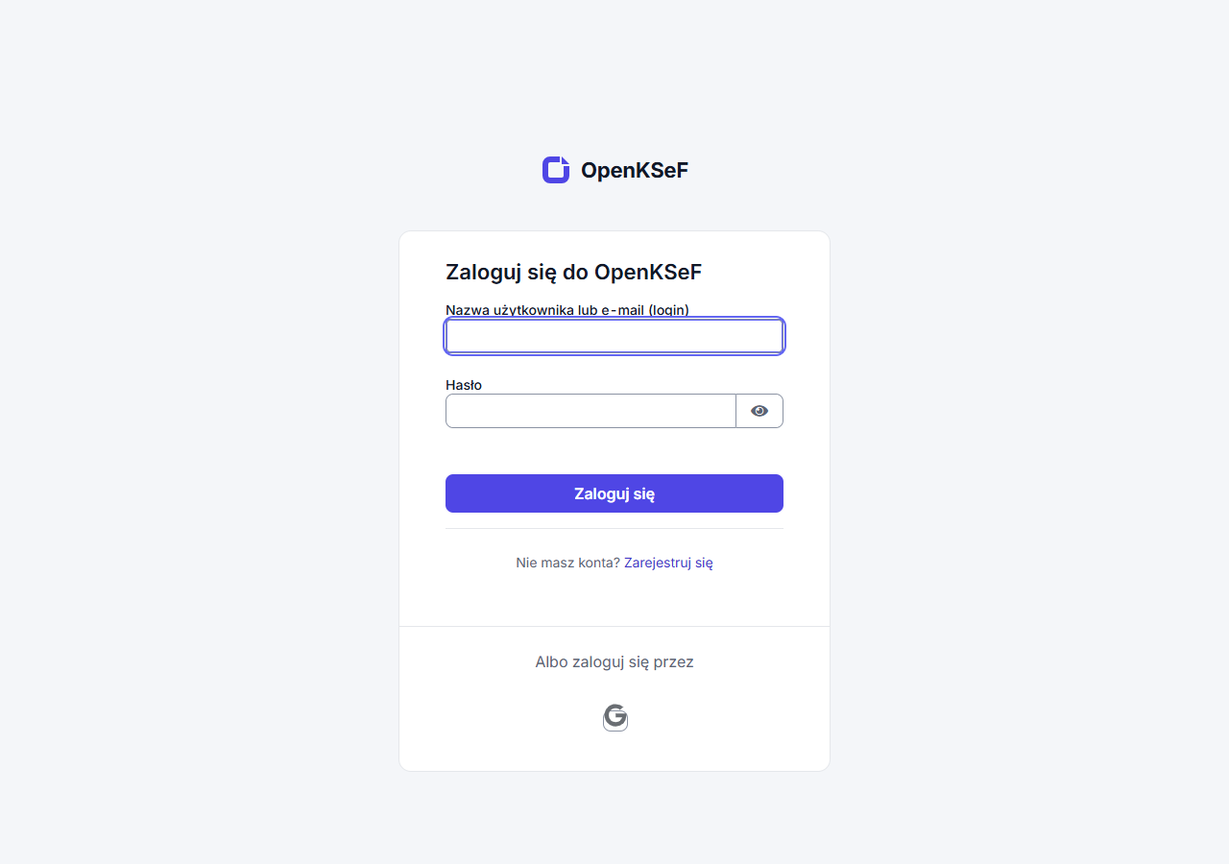
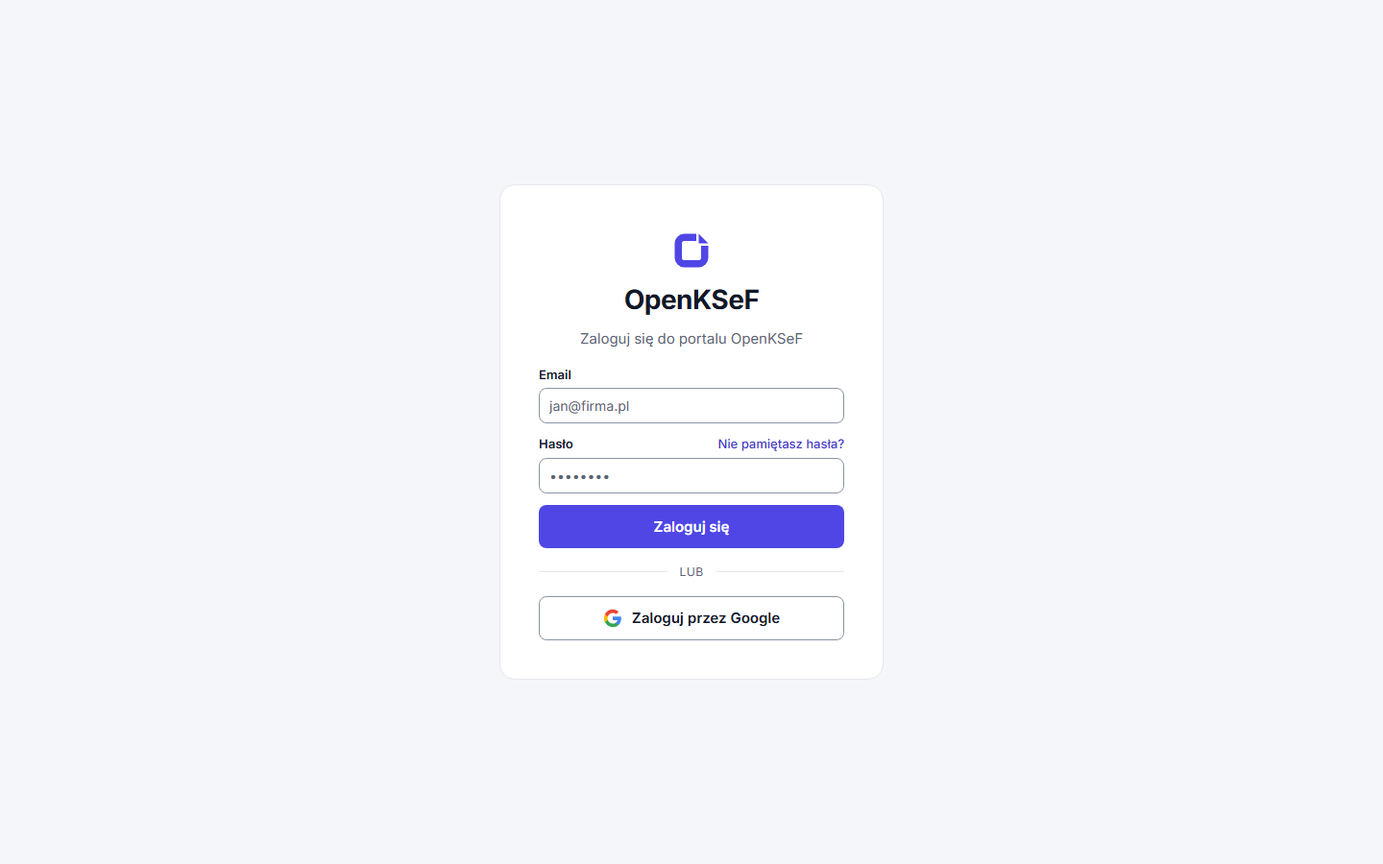
docs: 2FA, hosted login pages, recovery
T-729 + T-412. New weryfikacja-dwuetapowa.md (TOTP setup at next
password login, recovery codes, Bezpieczeństwo, admin reset, console
path). logowanie.md: hosted themed pages, forgot password with 2FA.
admin-setup.md: v0.0.24 section matches the release (own form, no
pairing); new auth v2 upgrade section with rollback. Pairing steps
and app screenshots removed until the app ships the button.

diff --git a/docs/admin-setup.md b/docs/admin-setup.md
@@ -98,11 +98,11 @@ Przejrzyj wszystkie ustawienia i kliknij "Zastosuj". Wizard:
 2. Tworzy klienty OAuth: `openksef-api`, `openksef-mobile`, `openksef-portal-web`
 3. Pobiera secret klienta API z Keycloak
 4. Aktualizuje URI przekierowań z zewnętrznym URL
-5. Konfiguruje realm Keycloak (polityka logowania, haseł, SMTP, [blokada po nieudanych logowaniach](logowanie#blokada-po-nieudanych-logowaniach)), polską stronę logowania z motywem `openksef` i [parowanie telefonu kodem](aplikacja-mobilna#sparuj-z-portalem)
+5. Konfiguruje realm Keycloak (polityka logowania, haseł, SMTP, [blokada po nieudanych logowaniach](logowanie#blokada-po-nieudanych-logowaniach)), polskie strony logowania z motywem `openksef` i [weryfikację dwuetapową](weryfikacja-dwuetapowa)
 6. Tworzy konto admina w Keycloak, rolę realmu `openksef-admin` i przypisuje ją temu kontu
 7. Konfiguruje Google IdP (jeśli podano)
 8. Zapisuje całą konfigurację w bazie danych
-9. Przekierowuje na stronę logowania
+9. Przekierowuje na stronę logowania. Pierwsze logowanie hasłem prosi o [włączenie weryfikacji dwuetapowej](weryfikacja-dwuetapowa#pierwsze-logowanie-włącz-weryfikację), także konto admina
 
 ## Klucz szyfrowania
 
@@ -339,7 +339,7 @@ Skrypt usuwa tylko faktury wystawione i ich pozycje. Nie ma w nich danych użytk
 
 ## Aktualizacja do v0.0.24
 
-v0.0.24 zmienia obraz Keycloak na `ghcr.io/open-ksef/openksef-keycloak` (Keycloak 26.0 z motywem OpenKSeF) i uruchamia go poleceniem `start` bez `--features`. Portal loguje na polskiej stronie logowania Keycloak, a telefon można zalogować [kodem z portalu](aplikacja-mobilna#sparuj-z-portalem). Wszystkie strony zostają pod `/auth/`, więc reverse proxy nie wymaga zmian.
+v0.0.24 zmienia obraz Keycloak na `ghcr.io/open-ksef/openksef-keycloak` (Keycloak 26.0) i uruchamia go poleceniem `start` bez `--features`. Portal nadal loguje własnym formularzem, wygląd logowania się nie zmienia.
 
 1. **Zrób kopię zapasową obu baz:**
    ```bash
@@ -348,18 +348,42 @@ v0.0.24 zmienia obraz Keycloak na `ghcr.io/open-ksef/openksef-keycloak` (Keycloa
    ```
 2. **Rola `openksef-admin`.** Instalacja z v0.0.11 lub starszej, która jej jeszcze nie ma: nadaj ją według [Aktualizacja do v0.0.12](#aktualizacja-do-v0012), krok 2. Bez niej zapis **Ustawień** w kroku 4 zwraca 403.
 3. **Nowy plik compose:** pobierz `docker-compose.yml` z wydania v0.0.24 i zastąp nim stary plik. Nowy plik nie potrzebuje `--features` w usłudze `keycloak`. Jeśli `.env` ma `OPENKSEF_VERSION`, ustaw `OPENKSEF_VERSION=v0.0.24` albo usuń tę linię. Potem `docker compose pull && docker compose up -d`.
-4. **Zapisz Ustawienia raz:** otwórz **Ustawienia** w portalu i zapisz je. Zapis włącza parowanie telefonu kodem, polskie teksty i motyw strony logowania oraz zapis zdarzeń logowania w Keycloak (przez 30 dni). Bez tego zapisu logowanie działa, ale strona logowania jest po angielsku, a aplikacja zgłasza, że serwer nie obsługuje parowania.
-5. **Sprawdź:** `<adres>/auth/realms/openksef/.well-known/openid-configuration` zawiera `device_authorization_endpoint`, a `<adres>/auth/realms/openksef/account/` pokazuje polską stronę logowania OpenKSeF.
+4. **Zapisz Ustawienia raz:** otwórz **Ustawienia** w portalu i zapisz je. Zapis ustawia polskie teksty stron Keycloak, zapis zdarzeń logowania (przez 30 dni) i sprawdza, czy rejestracja naprawdę działa. Jeśli rejestracja jest włączona i rola `manage-users` była nadana ręcznie, ten zapis jest konieczny.
 
 Zalogowani użytkownicy portalu i aplikacji zostają zalogowani. Od zapisu **Ustawień** logowanie w aplikacji wygasa po 30 dniach bez użycia i najpóźniej 365 dni po zalogowaniu, także na telefonach zalogowanych wcześniej.
 
 **Instalacja z v0.0.7 na porcie innym niż 8080.** Gateway z v0.0.7 wpisywał do tokenów wewnętrzny port 8080, nowszy wpisuje adres, pod którym otwierasz serwer. Telefony zalogowane jeszcze na v0.0.7 z innym `APP_HOST_PORT` pokażą `Sesja wygasła` i trzeba je zalogować ponownie.
 
-**Adres serwera.** Token telefonu jest ważny tylko dla adresu, pod którym zatwierdzono logowanie. Jeśli portal działa pod kilkoma adresami (np. IP w sieci lokalnej i domena), użytkownicy muszą parować telefon w portalu otwartym pod tym samym adresem, który mają w aplikacji. Inaczej aplikacja pokaże `Sesja wygasła`.
+**Powrót do v0.0.23.** Obrazu `openksef-keycloak` nie ma dla wersji przed v0.0.24, więc samo `OPENKSEF_VERSION=v0.0.23` nie zadziała. Wróć do `docker-compose.yml` z wydania v0.0.23 i uruchom `docker compose up -d`. Realmu nie trzeba zmieniać, zalogowane telefony zostają zalogowane.
+
+## Aktualizacja: nowe strony logowania i weryfikacja dwuetapowa
+
+To wydanie przenosi logowanie portalu na strony logowania OpenKSeF (Keycloak w motywie `openksef`, ten sam wygląd co portal) i wymaga [weryfikacji dwuetapowej](weryfikacja-dwuetapowa) przy logowaniu hasłem. Wymaga obrazu `openksef-keycloak` z tego samego wydania (Keycloak 26.8). Na Keycloak starszym niż 26.4 zapis **Ustawień** pomija weryfikację dwuetapową i zapisuje ostrzeżenie w logu API.
+
+1. **Zrób kopię zapasową obu baz**, jak w [Aktualizacja do v0.0.24](#aktualizacja-do-v0024), krok 1, do nowych plików.
+2. **Nowy plik compose:** pobierz `docker-compose.yml` z wydania i zastąp nim stary plik, potem `docker compose pull && docker compose up -d`. API przy starcie dodaje jedną tabelę (`AuditEvents`, zapis resetów weryfikacji).
+3. **Zapisz Ustawienia raz:** **Ustawienia** > **Administracja**, zaloguj się jako administrator Keycloak i zapisz. Zapis włącza motyw stron logowania, weryfikację dwuetapową i kody zapasowe oraz przekierowuje `/auth/realms/openksef/account` do **Ustawienia** > **Bezpieczeństwo**. Drugi zapis niczego nie zmienia.
+4. **Reset weryfikacji w portalu (opcjonalnie):** nadaj kontu serwisowemu `openksef-api` rolę `manage-users`, zobacz [Zgubiony telefon i kody](weryfikacja-dwuetapowa#zgubiony-telefon-i-kody-reset-przez-administratora). Bez niej reset robisz w konsoli Keycloak.
+5. **Sprawdź:** `/login` pokazuje stronę z tytułem **Logowanie – OpenKSeF**. Pierwsze logowanie hasłem prosi o włączenie weryfikacji dwuetapowej. Logowanie przez Google o nic nie pyta.
+
+Co zobaczą użytkownicy:
+
+- Każde konto z hasłem włącza weryfikację przy najbliższym logowaniu hasłem w portalu, także konto admina. Konta Google nic nie zmieniają.
+- Zalogowane telefony zostają zalogowane, także po włączeniu weryfikacji.
+- Aplikacja 1.0.8 nie ma pola na kod: konto z włączoną weryfikacją nie zaloguje się w niej hasłem, tylko przez Google. Uprzedź użytkowników, żeby zalogowali się w aplikacji przed pierwszym logowaniem do portalu po aktualizacji.
 
 **Własne zmiany CSS motywu.** Przeglądarki trzymają pliki motywu w pamięci podręcznej do 30 dni. Zmieniając CSS na tym samym Keycloak, zmień nazwę pliku, inaczej użytkownicy zobaczą stary wygląd.
 
-**Powrót do v0.0.23.** Obrazu `openksef-keycloak` nie ma dla wersji przed v0.0.24, więc samo `OPENKSEF_VERSION=v0.0.23` nie zadziała. Wróć do `docker-compose.yml` z wydania v0.0.23 i uruchom `docker compose up -d`. Realmu nie trzeba zmieniać. Portal wraca do formularza logowania, a zalogowane telefony zostają zalogowane. Keycloak bez motywu używa wbudowanego wyglądu i przy każdym wyświetleniu strony logowania zapisuje w logu `Failed to find LOGIN theme openksef`. Komunikat znika po ponownej aktualizacji.
+**Wycofanie.**
+
+- Obraz portalu z poprzedniego wydania (własny formularz logowania) działa tylko, dopóki nikt nie włączył weryfikacji. Sprawdź to w bazie Keycloak, wynik musi być `0`:
+  ```bash
+  echo "SELECT count(*) FROM credential WHERE type='otp';" | docker exec -i openksef-postgres sh -c 'psql -U "$POSTGRES_USER" -d keycloak -tA'
+  ```
+  Przy wyniku większym niż `0` konta z weryfikacją nie zalogują się starym formularzem. Zostań przy nowym portalu.
+- Wyłączenie weryfikacji w awarii: konsola Keycloak, realm `openksef` > **Authentication**, przypisz z powrotem wbudowane przepływy `browser`, `registration` i `reset credentials`. Zapisane aplikacje uwierzytelniające zostają. Następny zapis **Ustawień** włącza weryfikację ponownie.
+- Oficjalny obraz Keycloak zamiast `openksef-keycloak`: logowanie i weryfikacja działają, strony mają wbudowany wygląd Keycloak.
+- Tabela `AuditEvents` zostaje po powrocie do poprzedniego obrazu API i niczemu nie przeszkadza.
 
 ## Reverse proxy i publiczny adres
 

diff --git a/docs/aplikacja-mobilna.md b/docs/aplikacja-mobilna.md
@@ -17,10 +17,10 @@ Android: [plik APK na GitHubie](https://github.com/open-ksef/open-ksef-mobile/re
 - Numer faktury sprzedawcy i pozycje faktury w szczegółach (zobacz [Otrzymane faktury](faktury#aplikacja-mobilna))
 - Zarządzanie firmami (tenantami)
 - Powiadomienia push (SignalR + relay/Firebase)
-- Logowanie na stronie logowania OpenKSeF albo [parowanie kodem z portalem](#sparuj-z-portalem), bez hasła na telefonie
+- Logowanie przez Keycloak (OIDC)
 - Przycisk **Zapłać**: kod QR przelewu do zeskanowania w aplikacji bankowej, zobacz [Zapłać](#zapłać)
 - [Wystawianie faktur](wystawianie-faktur), od wersji 1.0.5
-- Skanowanie kodu QR z portalu, które ustawia adres serwera
+- Skanowanie QR do szybkiego połączenia z serwerem
 
 ## Zapłać
 
@@ -57,63 +57,19 @@ Tytuł przelewu w kodzie QR to numer faktury skrócony do 32 znaków. Gdy numer 
 
 Z serwerem OpenKSeF starszym niż 0.0.8 aplikacja (od wersji 1.0.6) nie pokazuje kodu QR, tylko komunikat `Kod QR wymaga nowszej wersji serwera. Skopiuj dane przelewu.`
 
-## Podłączenie do serwera
+## Podłączenie do self-hosted serwera
 
-1. Pobierz plik APK z [najnowszego wydania](https://github.com/open-ksef/open-ksef-mobile/releases/latest) i zainstaluj aplikację na urządzeniu.
-2. Ustaw adres serwera. Na ekranie logowania naciśnij **Zmień serwer**, wpisz adres (np. `https://twoj-serwer.pl`) i naciśnij **Zapisz**. Możesz też nacisnąć **QR** i zeskanować kod ze strony **Telefon** w portalu. Kod QR ustawia tylko adres serwera, nie loguje.
-3. Zaloguj się jednym z przycisków.
+1. Pobierz plik APK z [najnowszego wydania](https://github.com/open-ksef/open-ksef-mobile/releases/latest) i zainstaluj aplikację na urządzeniu
+2. Na ekranie logowania wprowadź adres serwera (np. `https://twoj-serwer.pl`)
+3. Zaloguj się e-mailem i hasłem z portalu albo przyciskiem **Zaloguj przez Google**
 
-<img src="/img/screenshots/mobile/login.png" alt="Ekran logowania aplikacji: Zaloguj się, Załóż konto, Sparuj z portalem, Zaloguj przez Google" width="320" />
-
-| Przycisk | Co robi |
-|----------|---------|
-| **Zaloguj się** | Otwiera w przeglądarce telefonu stronę logowania OpenKSeF. Login i hasło te same co w portalu |
-| **Załóż konto** | Rejestracja na tej samej stronie. Widoczny, gdy serwer pozwala na rejestrację |
-| **Sparuj z portalem** | Logowanie kodem zatwierdzonym w portalu, bez wpisywania hasła na telefonie, zobacz [Sparuj z portalem](#sparuj-z-portalem) |
-| **Zaloguj przez Google** | Działa, gdy administrator skonfigurował [logowanie Google](logowanie#logowanie-google-oauth-opcjonalne) |
-
-Aplikacja w wersji 1.0.8 i starszej ma formularz loginu i hasła na ekranie logowania. Nadal działa z nowym serwerem.
-
-## Sparuj z portalem
-
-Wymaga aplikacji w wersji 1.0.9 lub nowszej i serwera OpenKSeF v0.0.24 lub nowszego.
-
-1. W aplikacji naciśnij **Sparuj z portalem**. Aplikacja pokazuje kod z 8 liter, np. `ABCD-EFGH`, i czas jego ważności: 5 minut.
-2. Na komputerze zaloguj się do portalu i otwórz stronę **Telefon**. W karcie **Zaloguj telefon kodem** wpisz kod i naciśnij **Dalej**. Wielkość liter i myślnik nie mają znaczenia.
-3. Portal otwiera stronę logowania OpenKSeF. Jeśli zapyta o hasło, zaloguj się.
-4. Strona pyta **Zezwolić na logowanie: Aplikacja mobilna OpenKSeF?**. Wybierz **Tak** tylko wtedy, gdy ten kod widzisz teraz na swoim telefonie.
-5. Strona pokazuje **Telefon zalogowany**. Aplikacja sama przechodzi dalej: do listy faktur albo, gdy konto nie ma jeszcze firmy, do dodania firmy.
-
-<img src="/img/screenshots/mobile/pairing-code.png" alt="Aplikacja: kod do wpisania w portalu i czas ważności" width="320" />
-
-![Portal, strona Telefon: karta Zaloguj telefon kodem z ostrzeżeniem](/img/screenshots/portal/mobile-setup.png)
-
-![Strona zatwierdzenia: Zezwolić na logowanie: Aplikacja mobilna OpenKSeF?](/img/screenshots/portal/pairing-consent.png)
-
-![Strona po zatwierdzeniu: Telefon zalogowany](/img/screenshots/portal/pairing-done.png)
-
-:::danger[Wpisuj tylko kod z własnego telefonu]
-Kod od innej osoby albo link do strony z kodem to próba przejęcia konta. Po zatwierdzeniu ta osoba dostaje na swoim telefonie dostęp do wszystkich Twoich firm i faktur, także do wystawiania faktur w KSeF, bez Twojego hasła, nawet na rok. Aplikacja nie wysyła kodu ani linku, tylko pokazuje kod na ekranie. Jeśli zatwierdziłeś obcy kod, od razu użyj **Wyloguj wszystkie urządzenia** na stronie **Telefon** w portalu.
+:::warning[Weryfikacja dwuetapowa]
+Aplikacja 1.0.8 nie ma pola na kod z aplikacji uwierzytelniającej. Konto z włączoną [weryfikacją dwuetapową](weryfikacja-dwuetapowa) nie zaloguje się w niej hasłem: aplikacja pokaże `Nieprawidłowy email lub hasło.` Zaloguj się przez Google. Telefon zalogowany wcześniej zostaje zalogowany.
 :::
 
-Parowanie łączy telefon z Twoim kontem, nie z firmą. Telefon widzi wszystkie firmy, do których masz dostęp w portalu.
-
-### Jak długo telefon jest zalogowany
-
-- Aplikacja zostaje zalogowana po zamknięciu i ponownym uruchomieniu, także po restarcie serwera.
-- Logowanie w aplikacji wygasa po 30 dniach bez użycia aplikacji i najpóźniej 365 dni po zalogowaniu. Potem zaloguj się lub sparuj ponownie.
-- **Konto** > **Wyloguj się** w aplikacji kończy sesję tego telefonu na serwerze.
-- **Wyloguj wszystkie urządzenia** na stronie **Telefon** w portalu wylogowuje aplikację na każdym telefonie i portal we wszystkich przeglądarkach. Aplikacja pokaże `Sesja wygasła` i wróci do ekranu logowania.
-
-### Gdy parowanie się nie udaje
-
-| Komunikat | Przyczyna | Co zrobić |
-|-----------|-----------|-----------|
-| Aplikacja: `Kod wygasł. Poproś o nowy kod.` | Minęło 5 minut | Naciśnij **Nowy kod** |
-| Aplikacja: `Odrzucono parowanie w portalu.` | Na stronie zatwierdzenia wybrano **Nie** | Naciśnij **Nowy kod** |
-| Strona logowania: `Nieprawidłowy kod. Spróbuj ponownie.` | Literówka albo kod już użyty | Sprawdź kod na telefonie |
-| Aplikacja: `Ten serwer nie obsługuje parowania kodem.` | Serwer starszy niż v0.0.24 albo administrator po aktualizacji nie zapisał **Ustawień** | Zaloguj się przyciskiem **Zaloguj się**. Administrator: [Aktualizacja do v0.0.24](admin-setup#aktualizacja-do-v0024) |
-| Aplikacja po parowaniu: `Sesja wygasła. Zaloguj się ponownie.` | Portal był otwarty pod innym adresem niż adres serwera w aplikacji, np. portal pod `http://192.168.1.50:8080`, a aplikacja ustawiona na `https://ksef.twoja-firma.pl`. Serwer przyjmuje tylko logowanie zatwierdzone pod adresem, który ma aplikacja | Otwórz portal pod adresem serwera z aplikacji (aplikacja pokazuje go jako **Serwer** na ekranie logowania, portal pod polem kodu pokazuje swój adres) i sparuj ponownie |
+:::tip[Szybkie połączenie]
+W portalu webowym przejdź do strony **Telefon** -- znajdziesz tam kod QR, który możesz zeskanować w aplikacji mobilnej, żeby automatycznie ustawić adres serwera. Karta **Zaloguj telefon kodem** na tej stronie nie działa z aplikacją 1.0.8: ta wersja nie ma przycisku **Sparuj z portalem**.
+:::
 
 ## Wymagania dla Android
 

diff --git a/docs/weryfikacja-dwuetapowa.md b/docs/weryfikacja-dwuetapowa.md
@@ -1,0 +1,93 @@
+---
+sidebar_position: 5
+title: Weryfikacja dwuetapowa
+---
+
+# Weryfikacja dwuetapowa
+
+Kto loguje się e-mailem i hasłem, po haśle wpisuje 6-cyfrowy kod z aplikacji uwierzytelniającej na telefonie. Samo skradzione hasło nie wystarczy wtedy do wejścia na konto.
+
+| Logowanie | Kod z aplikacji |
+|-----------|-----------------|
+| E-mail i hasło | Wymagany, dla każdego konta, także administratora |
+| Przez Google | Nie. Weryfikację dwuetapową ustawiasz na swoim koncie Google |
+| Konto z hasłem i połączonym Google | Tylko przy logowaniu hasłem |
+
+Wyłączyć weryfikacji nie można. Dodatkowej opłaty ani konfiguracji nie ma: działa po zapisaniu **Ustawień** przez administratora, zobacz [Aktualizacja: nowe strony logowania i weryfikacja dwuetapowa](admin-setup#aktualizacja-nowe-strony-logowania-i-weryfikacja-dwuetapowa).
+
+## Pierwsze logowanie: włącz weryfikację
+
+Konto z hasłem bez weryfikacji (nowe albo założone wcześniej) przy najbliższym logowaniu hasłem trafia na stronę **Włącz weryfikację dwuetapową**. Do OpenKSeF wejdziesz dopiero po jej ustawieniu. To zajmuje około minuty.
+
+1. Zainstaluj na telefonie aplikację uwierzytelniającą, np. Google Authenticator, Microsoft Authenticator albo Aegis.
+2. Zeskanuj kod QR w tej aplikacji. Nie możesz zeskanować, bo strona jest otwarta na tym samym telefonie? Naciśnij **Kopiuj** i wpisz klucz w aplikacji ręcznie albo naciśnij **Otwórz w aplikacji na tym telefonie**.
+3. Wpisz 6-cyfrowy kod, który pokazuje aplikacja, i naciśnij **Włącz weryfikację**.
+
+![Strona Włącz weryfikację dwuetapową: kod QR, klucz do wpisania ręcznie, pole na kod](/img/screenshots/portal/2fa-setup.png)
+
+Kod jest zły, gdy telefon ma źle ustawiony czas. Włącz w telefonie automatyczną datę i godzinę.
+
+## Kody zapasowe
+
+Zaraz po włączeniu weryfikacji strona pokazuje 12 kodów zapasowych. Każdy kod działa raz. Użyjesz ich, gdy nie masz telefonu z aplikacją.
+
+- Strona pokazuje kody tylko teraz. Zapisz je poza telefonem: **Kopiuj**, **Pobierz** (plik tekstowy) albo **Drukuj**.
+- Zaznacz **Zapisałem kody w bezpiecznym miejscu** i naciśnij **Dalej**.
+
+![Strona Zapisz kody zapasowe: 12 kodów, przyciski Kopiuj, Pobierz, Drukuj](/img/screenshots/portal/2fa-recovery-codes.png)
+
+## Logowanie z kodem
+
+Po haśle strona **Weryfikacja dwuetapowa** prosi o kod z aplikacji. Przy złym kodzie pokazuje `Nieprawidłowy kod. Sprawdź, czy telefon ma automatyczny czas, i wpisz nowy kod.`
+
+![Strona Weryfikacja dwuetapowa: pole Kod z aplikacji, link do kodu zapasowego](/img/screenshots/portal/2fa-code.png)
+
+Nie masz telefonu? Naciśnij **Nie masz telefonu? Użyj kodu zapasowego**, wybierz **Kod zapasowy** i wpisz kod o numerze, który poda strona. Wpisany kod przestaje działać.
+
+Zalogowany telefon z aplikacją OpenKSeF nie prosi o kod: działa dalej także po włączeniu weryfikacji. Włączenie weryfikacji nie wylogowuje innych urządzeń. Jeśli podejrzewasz, że ktoś zna Twoje hasło, użyj **Wyloguj wszystkie urządzenia** (niżej).
+
+## Ustawienia > Bezpieczeństwo
+
+W portalu otwórz **Ustawienia** > **Bezpieczeństwo**.
+
+![Ustawienia, zakładka Bezpieczeństwo: hasło, weryfikacja dwuetapowa, aktywne sesje](/img/screenshots/portal/settings-security.png)
+
+| Karta | Co zobaczysz i co zrobisz |
+|-------|---------------------------|
+| **Hasło** | Datę ostatniej zmiany. **Zmień hasło** otwiera stronę zmiany hasła i wraca do portalu |
+| **Weryfikacja dwuetapowa** | Status **Włączona**, datę włączenia i liczbę niewykorzystanych kodów zapasowych |
+| | **Wygeneruj nowe kody**: dotychczasowe kody przestają działać, nowe zobaczysz raz. Przy 3 kodach lub mniej portal przypomina o nowych |
+| | **Zmień aplikację**, np. przy nowym telefonie: ustawiasz nową aplikację, stara przestaje działać, dostajesz nowe kody zapasowe |
+| | Status **Nieustawiona** (np. po resecie przez administratora): **Ustaw teraz** albo ustawisz ją przy następnym logowaniu hasłem |
+| | Konto tylko z Google: **Przez Google**, bez przycisków |
+| **Aktywne sesje i urządzenia** | Przeglądarki i telefony zalogowane na Twoje konto. **Wyloguj wszystkie urządzenia** wylogowuje wszystkie naraz, także tę przeglądarkę. Pojedynczej sesji nie wylogujesz |
+
+## Zgubiony telefon i kody: reset przez administratora
+
+Nie masz ani telefonu z aplikacją, ani kodów zapasowych? Poproś administratora OpenKSeF o reset weryfikacji. Po resecie przy następnym logowaniu hasłem ustawisz weryfikację od nowa, ze starym hasłem.
+
+Administrator (rola `openksef-admin`):
+
+1. Otwórz **Ustawienia** > **Administracja**, kartę **Weryfikacja dwuetapowa użytkownika**.
+2. Wpisz e-mail użytkownika i naciśnij **Znajdź**.
+3. Naciśnij **Resetuj weryfikację dwuetapową** i potwierdź. Portal usuwa aplikację uwierzytelniającą i kody zapasowe użytkownika i zapisuje, kto wykonał reset.
+
+![Ustawienia, zakładka Administracja: karta Weryfikacja dwuetapowa użytkownika](/img/screenshots/portal/admin-2fa-reset.png)
+
+Reset w portalu wymaga roli `manage-users` dla konta serwisowego `openksef-api`. Kreator jej nie nadaje, bo pozwala też ustawić hasło każdemu użytkownikowi. Bez niej karta pokazuje kroki w konsoli Keycloak zamiast przycisku. Jak nadać rolę: [Konfiguracja ręczna](logowanie#konfiguracja-ręczna), krok 5.
+
+### Jedyny administrator bez telefonu i kodów
+
+Reset zrobisz w konsoli Keycloak. Logujesz się do niej kontem `KEYCLOAK_ADMIN` z pliku `.env`, bez kodu z aplikacji.
+
+1. Otwórz konsolę `/auth/admin`. Gateway ją blokuje, jak ją otworzyć: [Aktualizacja: porty i konsola Keycloak](admin-setup#aktualizacja-porty-i-konsola-keycloak).
+2. Wybierz realm `openksef` > **Users** > swoje konto > **Credentials**.
+3. Usuń wpisy `otp` i `recovery-authn-codes`.
+4. Zaloguj się do portalu hasłem i ustaw weryfikację od nowa.
+
+## Aplikacja mobilna
+
+Aplikacja w wersji 1.0.8 loguje e-mailem i hasłem we własnym formularzu, bez pola na kod. Po włączeniu weryfikacji to konto nie zaloguje się w niej hasłem: aplikacja pokaże `Nieprawidłowy email lub hasło.` Co działa:
+
+- Telefon zalogowany wcześniej zostaje zalogowany. Zaloguj się w aplikacji, zanim pierwszy raz zalogujesz się do portalu po aktualizacji serwera.
+- **Zaloguj przez Google** w aplikacji, jeśli administrator skonfigurował Google.

diff --git a/docs/logowanie.md b/docs/logowanie.md
@@ -5,18 +5,28 @@ title: Strona logowania
 
 # Konfiguracja strony logowania
 
-![Strona logowania](/img/screenshots/portal/login.png)
+![Strona logowania: Email, Hasło, Nie pamiętasz hasła?, Zaloguj przez Google](/img/screenshots/portal/login.png)
 
-Od v0.0.24 portal `/login` przekierowuje na polską stronę logowania OpenKSeF, którą wyświetla Keycloak (Authorization Code + PKCE, motyw `openksef`). Po zalogowaniu wracasz na stronę portalu, którą otwierałeś. Strona logowania obsługuje:
+Portal `/login` przekierowuje na stronę logowania OpenKSeF. Wyświetla ją Keycloak (Authorization Code + PKCE) w motywie `openksef`, który wygląda jak portal. Po zalogowaniu wracasz na stronę portalu, którą otwierałeś. Na stronie logowania są:
 
-- **Login i hasło**
-- **Logowanie przez Google** -- Keycloak IdP brokering, gdy skonfigurowano [Google OAuth](#logowanie-google-oauth-opcjonalne)
-- **Rejestrację** -- link **Zarejestruj się**, gdy rejestracja jest włączona w **Ustawieniach**
-- Reset hasła, gdy w **Ustawieniach** skonfigurowano SMTP i włączono reset hasła
+- **Email i hasło**, potem kod z aplikacji uwierzytelniającej, zobacz [Weryfikacja dwuetapowa](weryfikacja-dwuetapowa)
+- **Zaloguj przez Google** -- gdy skonfigurowano [Google OAuth](#logowanie-google-oauth-opcjonalne). Bez kodu z aplikacji
+- **Zarejestruj się** -- gdy rejestracja jest włączona w **Ustawieniach**. Nowe konto od razu ustawia weryfikację dwuetapową
+- **Nie pamiętasz hasła?** -- gdy w **Ustawieniach** skonfigurowano SMTP i włączono reset hasła, zobacz [Nie pamiętasz hasła](#nie-pamiętasz-hasła)
 
-Ta sama strona loguje aplikację mobilną od wersji 1.0.9. Telefon możesz też zalogować kodem zatwierdzonym w portalu, bez hasła na telefonie: [Sparuj z portalem](aplikacja-mobilna#sparuj-z-portalem).
+Wszystkie strony logowania (rejestracja, nowe hasło, potwierdzenie e-maila, weryfikacja dwuetapowa, komunikaty o błędach) są po polsku, w tym samym wyglądzie. Wylogowanie nie pyta o potwierdzenie i wraca na stronę logowania.
 
-**Wyloguj wszystkie urządzenia** na stronie **Telefon** (od v0.0.23) wylogowuje aplikację mobilną na każdym telefonie i portal we wszystkich przeglądarkach, także w tej. Telefony przestają dostawać powiadomienia. Użyj tego po utracie telefonu albo gdy zatwierdziłeś kod, który nie pochodził z Twojego telefonu.
+Zmianę hasła, weryfikację dwuetapową i listę zalogowanych urządzeń znajdziesz w portalu: **Ustawienia** > **Bezpieczeństwo**. Adres `/auth/realms/openksef/account` też tam prowadzi. **Wyloguj wszystkie urządzenia** (na tej zakładce i na stronie **Telefon**) wylogowuje aplikację mobilną na każdym telefonie i portal we wszystkich przeglądarkach, także w tej. Telefony przestają dostawać powiadomienia. Użyj tego po utracie telefonu.
+
+Bez obrazu `openksef-keycloak`, na oficjalnym obrazie Keycloak, logowanie działa tak samo, ale strony mają wbudowany wygląd Keycloak.
+
+## Nie pamiętasz hasła
+
+1. Na stronie logowania naciśnij **Nie pamiętasz hasła?**, wpisz e-mail i naciśnij **Wyślij link**. Strona nie mówi, czy konto istnieje.
+2. Otwórz link z e-maila.
+3. Ustaw nowe hasło. Konto z weryfikacją dwuetapową najpierw wpisuje kod z aplikacji albo kod zapasowy. Konto bez weryfikacji ustawia ją po drodze.
+
+Nowe hasło nie wyłącza weryfikacji dwuetapowej. Zgubiłeś telefon i kody zapasowe: [reset przez administratora](weryfikacja-dwuetapowa#zgubiony-telefon-i-kody-reset-przez-administratora).
 
 ## Logowanie Google OAuth (opcjonalne)
 
@@ -40,9 +50,9 @@ Przykłady:
 
 ## Rejestracja użytkowników
 
-Portal od v0.0.24 i aplikacja od wersji 1.0.9 zakładają konto na stronie logowania Keycloak. To działa bez dodatkowej konfiguracji.
+Portal zakłada konto na stronie logowania: **Zarejestruj się** jest widoczne, gdy rejestracja jest włączona w **Ustawieniach**. To działa bez dodatkowej konfiguracji.
 
-Ta sekcja dotyczy tylko formularza **Załóż konto** w aplikacji mobilnej 1.0.8 i starszej. Formularz używa `POST /api/account/register` (Keycloak Admin API). Kreator zapisuje secret klienta `openksef-api` tylko w bazie i nie nadaje kontu serwisowemu ról `manage-users` ani `view-realm`. Dlatego na instalacji z kreatora z włączoną rejestracją ten formularz zwraca `503`. Użytkownik takiej aplikacji zakłada konto w portalu albo loguje się przez Google (jeśli skonfigurowano). Formularz zadziała po [konfiguracji ręcznej](#konfiguracja-ręczna).
+Dalej tylko o formularzu **Załóż konto** w aplikacji mobilnej (1.0.8 i starsze). Formularz używa `POST /api/account/register` (Keycloak Admin API). Kreator zapisuje secret klienta `openksef-api` tylko w bazie i nie nadaje kontu serwisowemu ról `manage-users` ani `view-realm`. Dlatego na instalacji z kreatora z włączoną rejestracją ten formularz zwraca `503`. Użytkownik takiej aplikacji zakłada konto w portalu albo loguje się przez Google (jeśli skonfigurowano). Formularz zadziała po [konfiguracji ręcznej](#konfiguracja-ręczna).
 
 Każde żądanie czyta realm: rejestracja wyłączona zwraca `403`, a nieudany odczyt `503`. W obu przypadkach konto nie powstaje.
 

diff --git a/AGENTS.md b/AGENTS.md
@@ -45,7 +45,8 @@ docs/
     szybki-start.md           # docker-compose.yml, .env, docker compose up, kreator
     konfiguracja.md           # Zmienne środowiskowe, KSeF test/prod
   admin-setup.md              # Kreator konfiguracji (wizard krok po kroku)
-  logowanie.md                # Strona logowania, Google OAuth, rejestracja
+  logowanie.md                # Strona logowania, nie pamiętasz hasła, Google OAuth, rejestracja
+  weryfikacja-dwuetapowa.md   # 2FA TOTP: włączenie, kody zapasowe, Bezpieczeństwo, reset admina, konsola
   token-ksef.md               # Jak uzyskać token KSeF i gdzie go wkleić
   certyfikat-ksef.md          # Certyfikat KSeF (Uwierzytelnianie) zamiast tokenu, ważność, odnowienie
   faktury.md                  # Lista, szczegóły, pozycje, status płatności, przelew/QR, resynchronizacja
@@ -70,10 +71,10 @@ docs/
 
 ### Screenshoty
 
-`static/img/screenshots/portal/` -- screeny portalu webowego do dokumentacji (strona logowania Keycloak, dashboard, admin-setup kroki 1-3, 5, 6, lista faktur, szczegóły, pozycje, opłacona, QR, strona Telefon, zatwierdzenie parowania, telefon zalogowany), tylko jasny motyw
+`static/img/screenshots/portal/` -- screeny portalu webowego do dokumentacji (strona logowania, weryfikacja dwuetapowa: włączenie, kody zapasowe, kod; Ustawienia > Bezpieczeństwo, reset weryfikacji, dashboard, admin-setup kroki 1-3, 5, 6, lista faktur, szczegóły, pozycje, opłacona, QR), tylko jasny motyw
 `static/img/screenshots/home/` -- screeny na stronę główną (start, start na telefonie, lista, płatność), jasny i ciemny motyw
 
-`static/img/screenshots/mobile/` -- screeny aplikacji mobilnej (ekran logowania, kod parowania), w docs przez `<img width="320">`
+Screenów aplikacji mobilnej brak (nie ma folderu `mobile/`).
 
 Screeny zawierają wyłącznie dane fikcyjne (np. NIP 1111111111, nazwy "Przykład"). Żadnych prawdziwych NIP-ów, numerów KSeF, nazw firm ani adresów serwerów.
 

diff --git a/docs/instalacja/konfiguracja.md b/docs/instalacja/konfiguracja.md
@@ -17,11 +17,11 @@ Plik `.env` jest **wymagany**: musi zawierać dane logowania do PostgreSQL i Key
 
 ## Architektura kontenerów
 
-Obrazy aplikacji są publikowane na GitHub Container Registry (`ghcr.io/open-ksef/*`) i nie wymagają autentykacji. Od v0.0.24 Keycloak też: `openksef-keycloak` to oficjalny Keycloak 26.0 z polskim motywem strony logowania, uruchamiany poleceniem `start` bez `--features`. Starsze wydania używają `quay.io/keycloak/keycloak:26.0`.
+Obrazy aplikacji są publikowane na GitHub Container Registry (`ghcr.io/open-ksef/*`) i nie wymagają autentykacji. Keycloak korzysta z oficjalnego obrazu (`quay.io/keycloak/keycloak:26.0`).
 
 | Obraz | Opis |
 |-------|------|
-| `openksef-keycloak` | Keycloak 26.0 z motywem `openksef`. Realm `openksef` i klienty OAuth tworzone przez [kreator konfiguracji](../admin-setup) |
+| `keycloak/keycloak:26.0` | Keycloak 26 (oficjalny obraz). Realm `openksef` i klienty OAuth tworzone przez [kreator konfiguracji](../admin-setup) |
 | `openksef-gateway` | Nginx z wbudowaną konfiguracją reverse proxy (portal `/`, API `/api/*`, Keycloak `/auth/*`) |
 | `openksef-api` | Backend .NET 10 |
 | `openksef-worker` | Worker .NET 10 (synchronizacja faktur w tle) |
